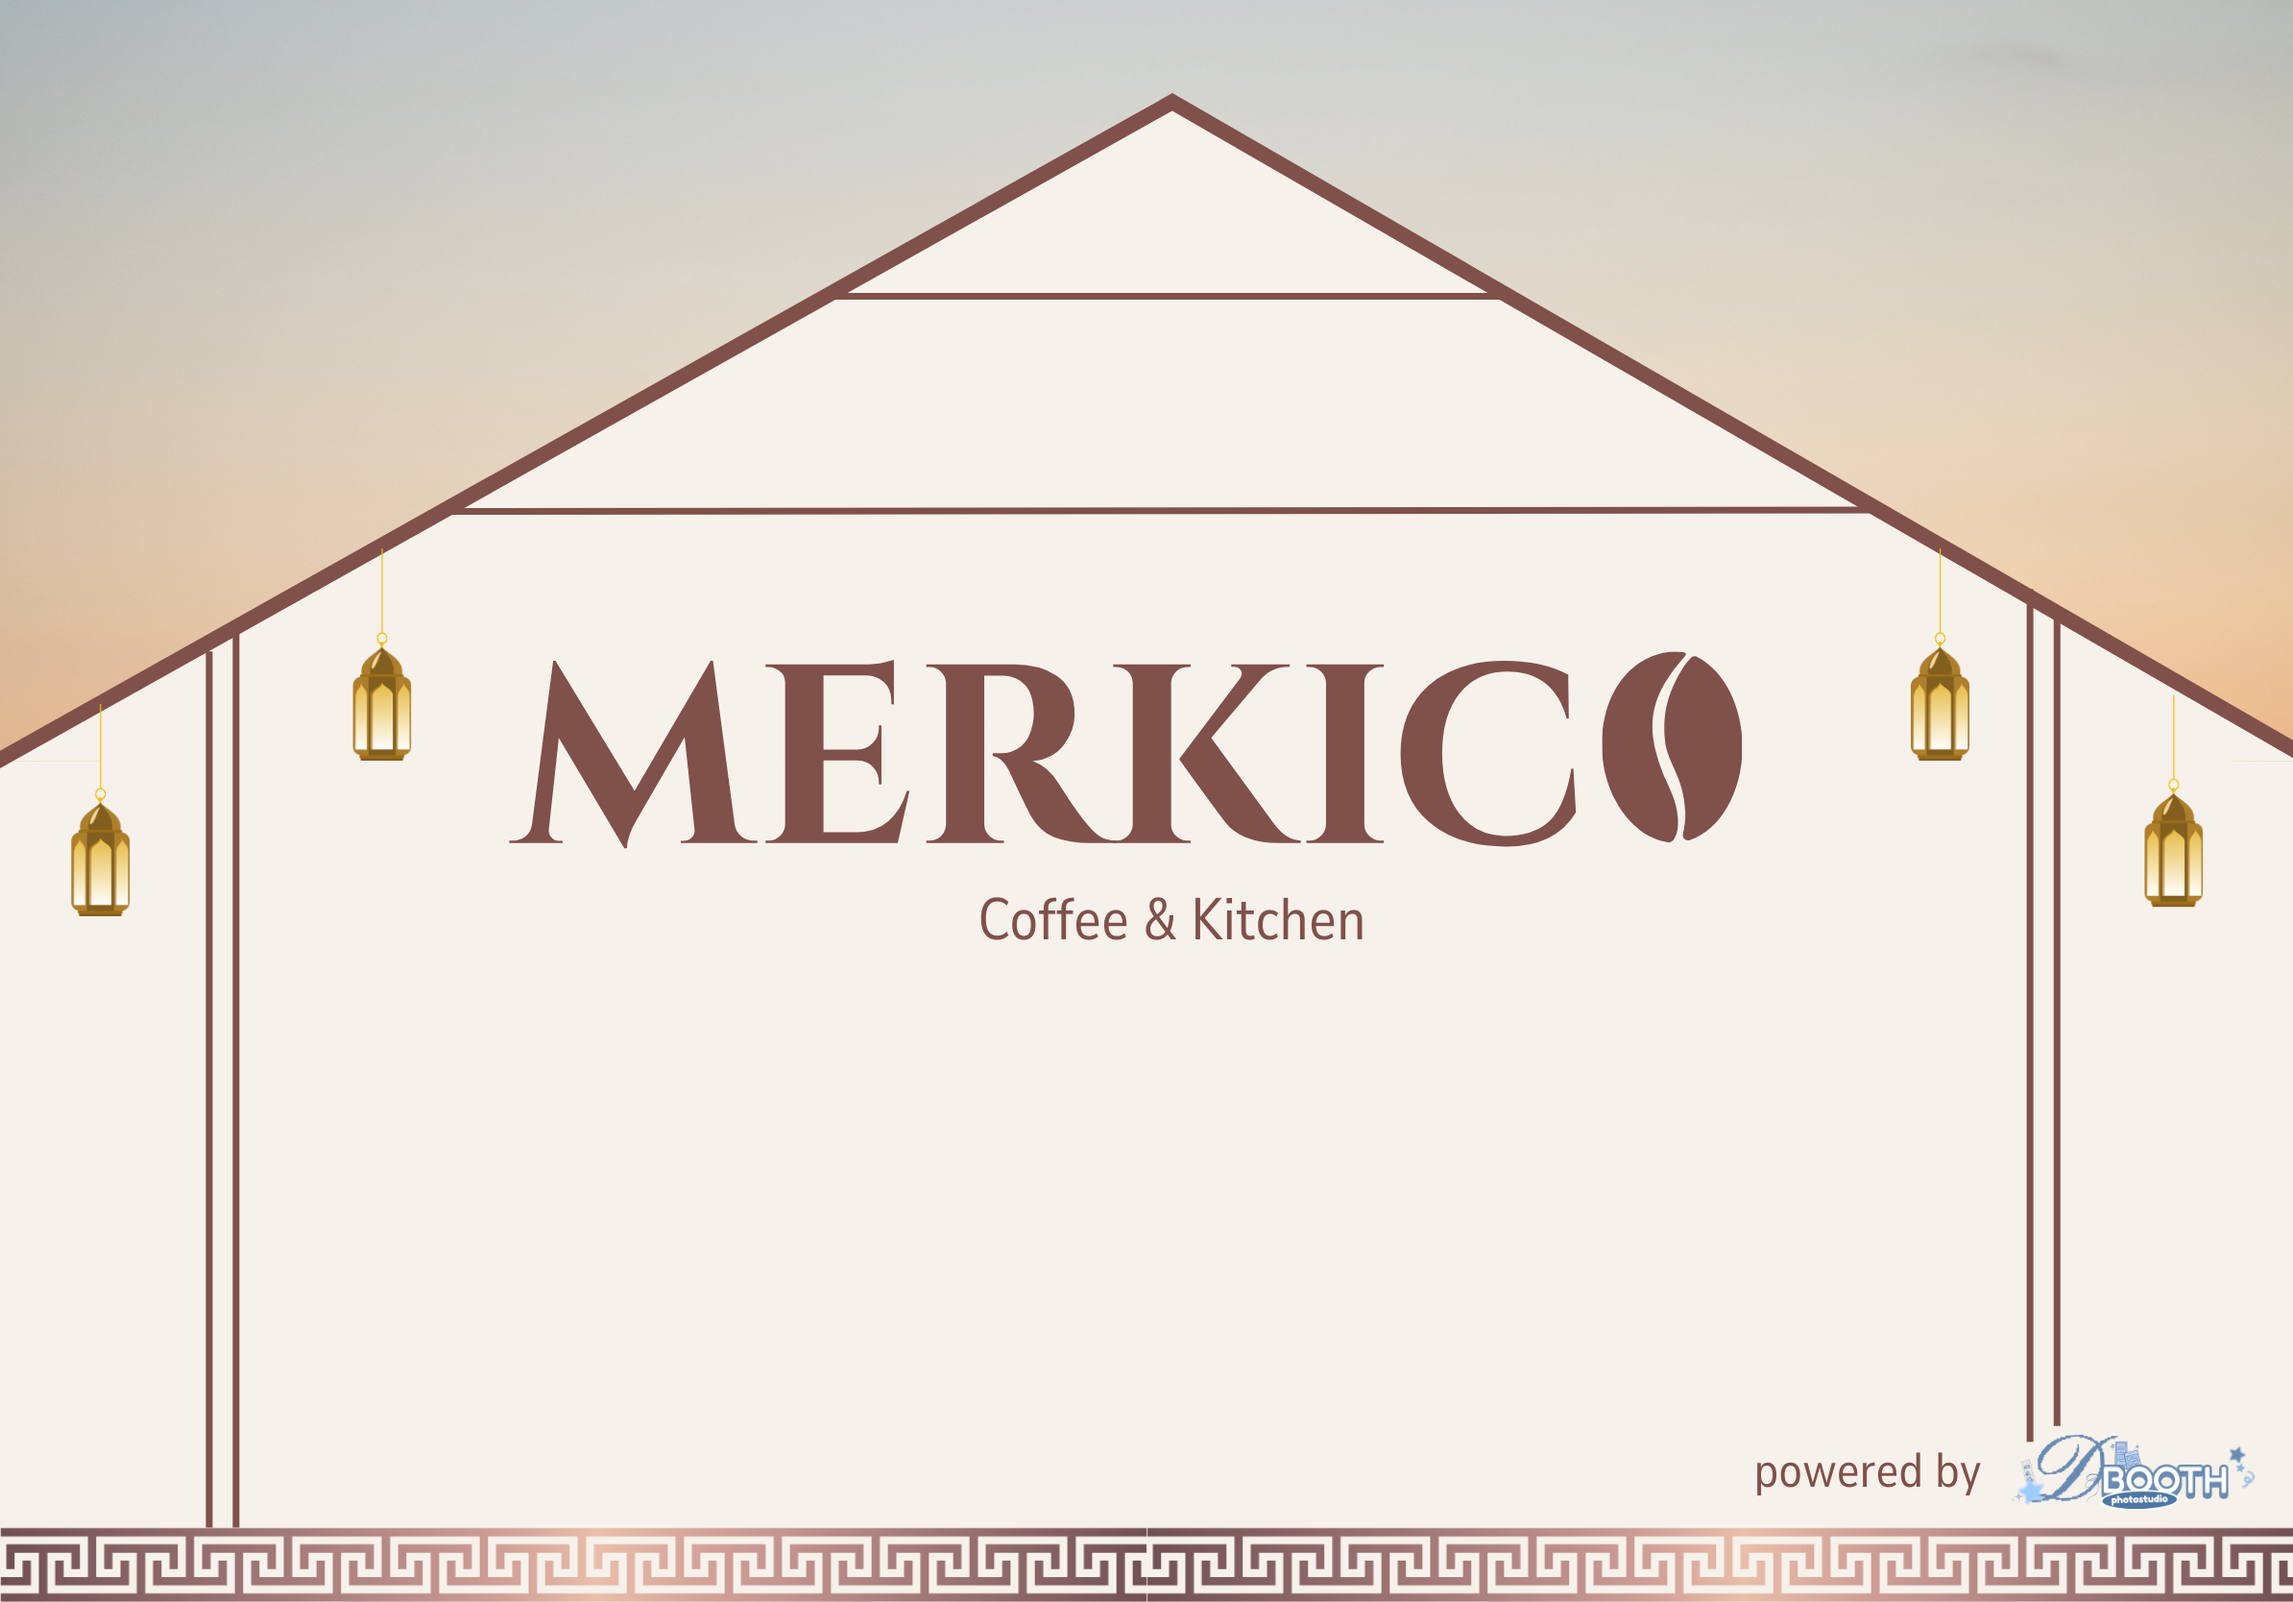
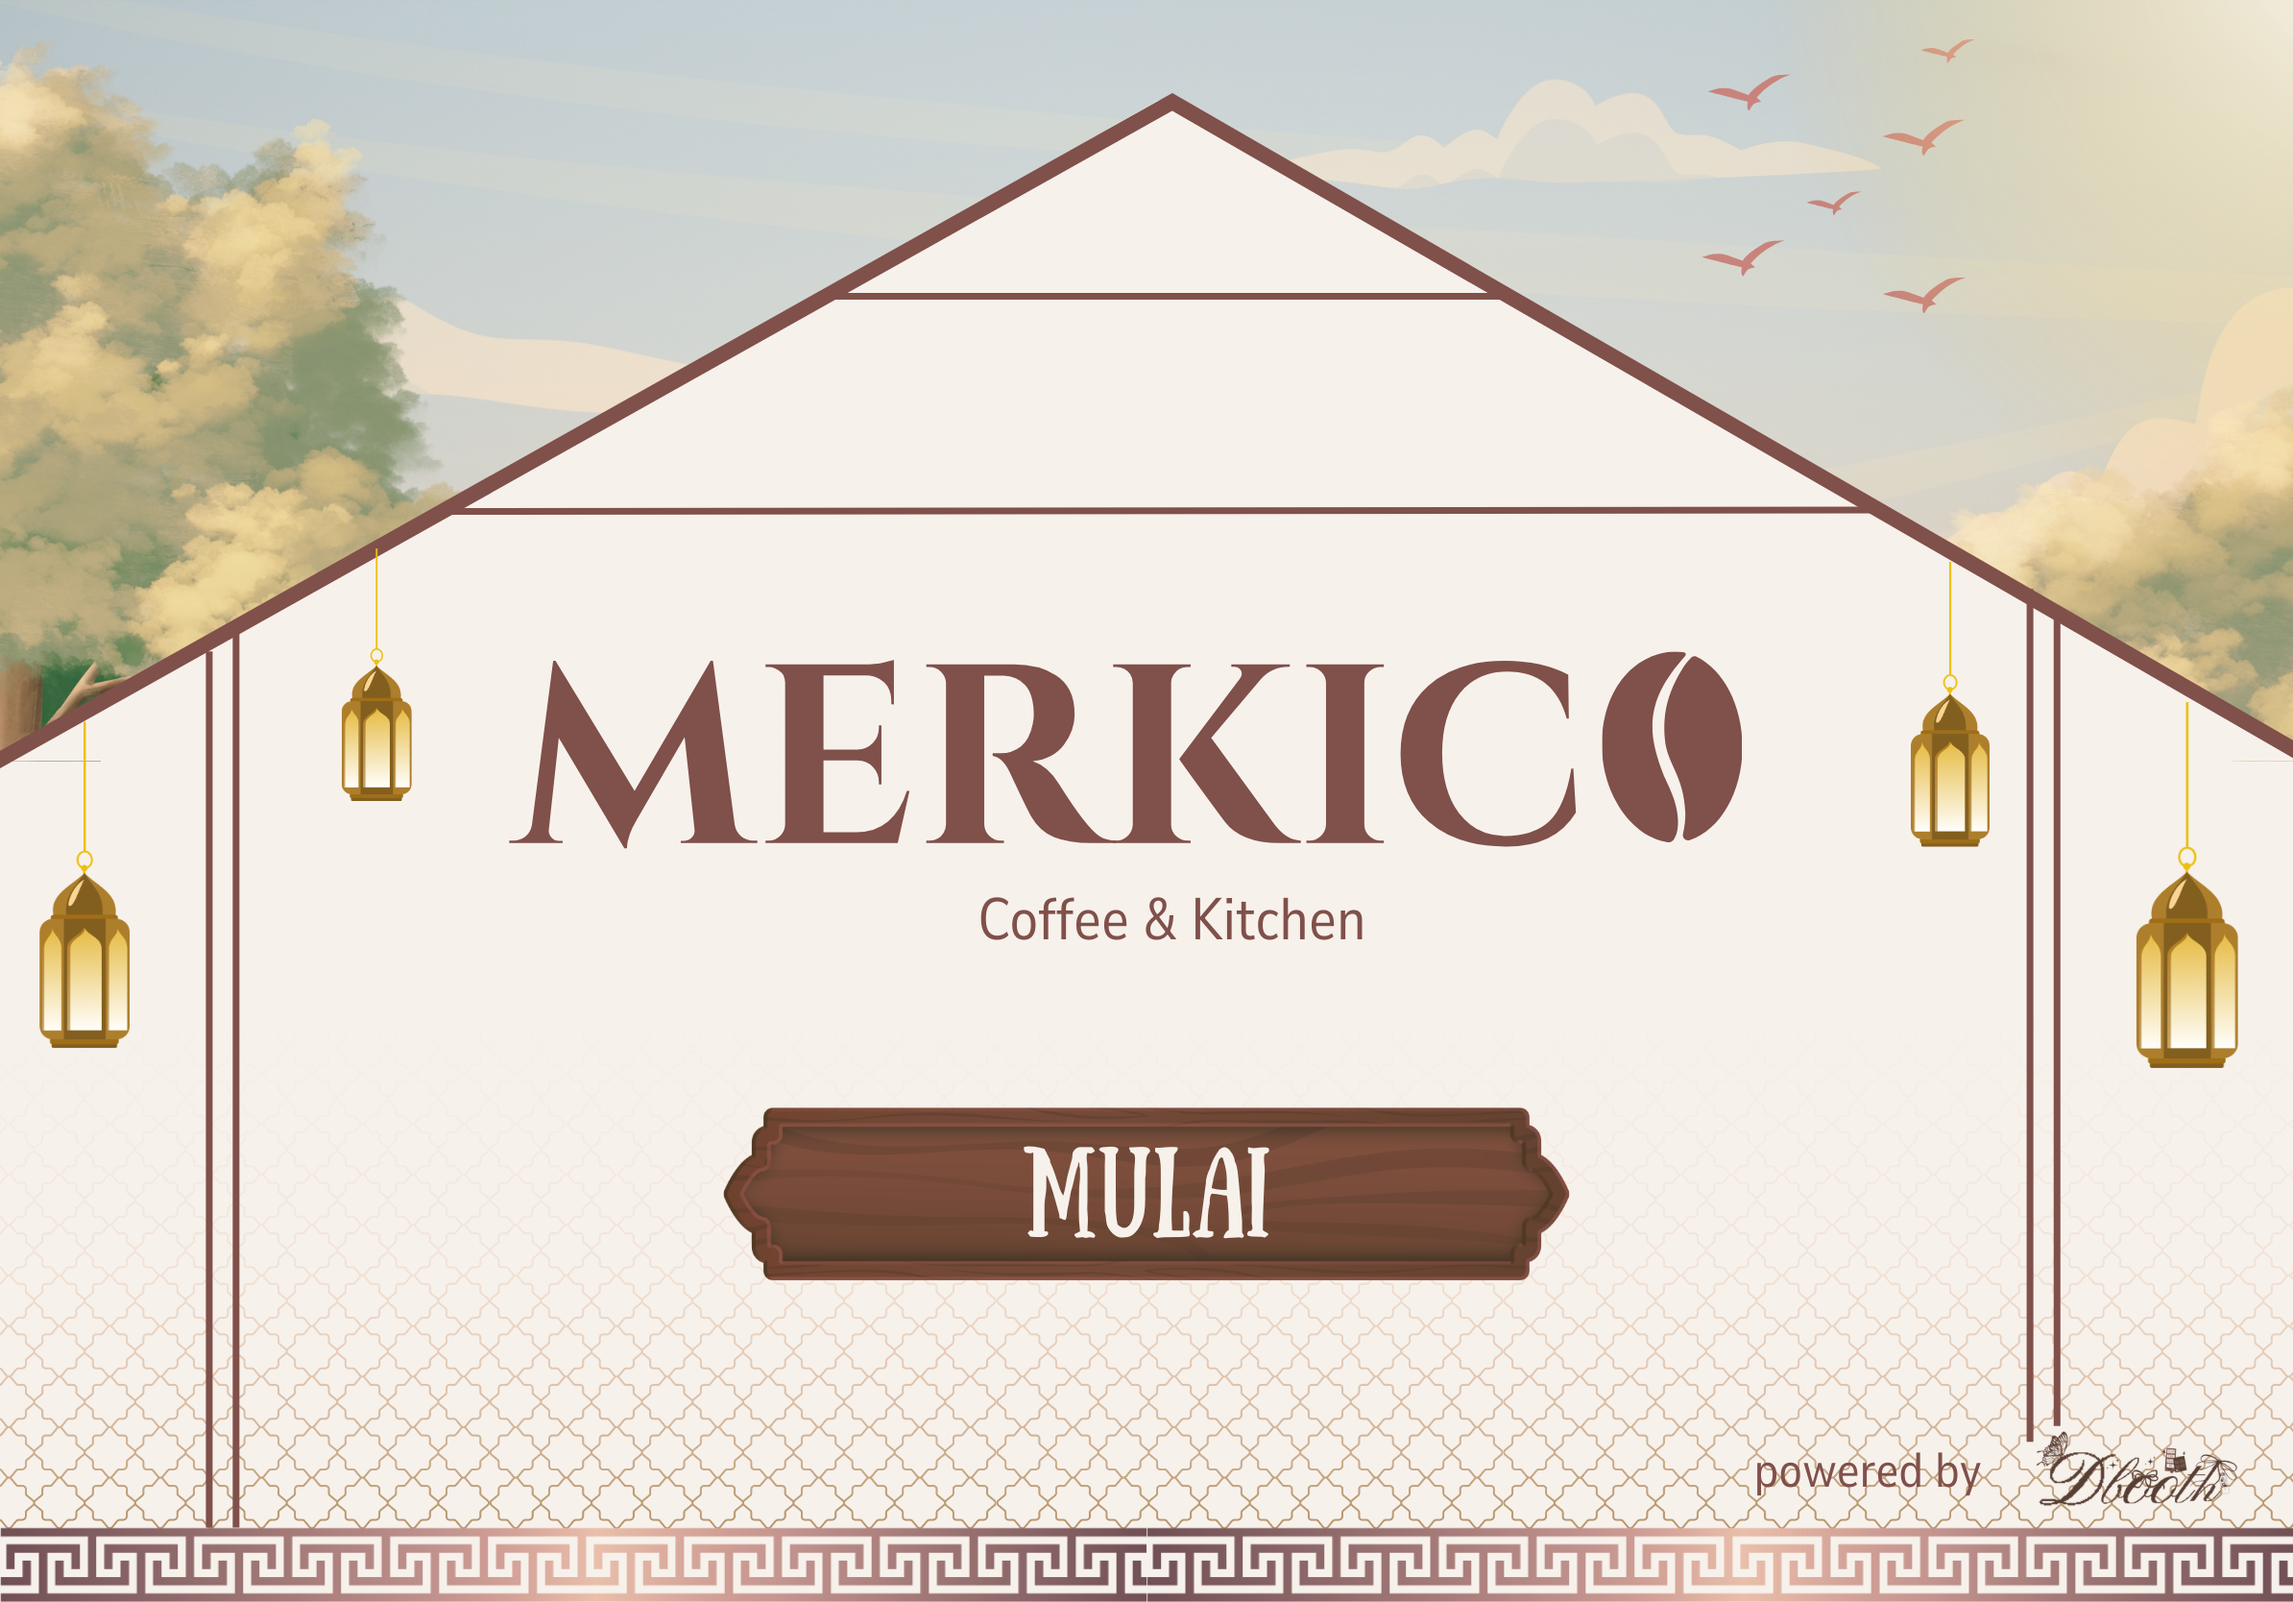
tinggal frame

diff --git a/src/event/4r/merkico/frames.js b/src/event/4r/merkico/frames.js
@@ -1,8 +1,8 @@
 export const frames = [ 
     {
-        id: 'Red 4r', 
-        name : 'Red', 
-        image : '/event/zidni-aike/frames/4r/red.png', 
+        id: 'merkico', 
+        name : 'Merkico', 
+        image : '/event/merkico/frames/merkico.png', 
         photoCount : '6', 
         canvas: {
             width: 1205,
@@ -50,7 +50,7 @@ export const frames = [
     {
         id: 'folklore 4r', 
         name : 'Folklore', 
-        image : '/event/zidni-aike/frames/4r/folklore.png', 
+        image : '/event/merkico/frames/dbooth-biru.png', 
         photoCount : '6', 
         canvas: {
             width: 1205,
@@ -98,7 +98,7 @@ export const frames = [
     {
         id: 'lover 4r', 
         name : 'lover', 
-        image : '/event/zidni-aike/frames/4r/lover.png', 
+        image : '/event/merkico/frames/ramadhan-kareem.png', 
         photoCount : '6', 
         canvas: {
             width: 1205,
@@ -143,4 +143,101 @@ export const frames = [
             }
         ]
     }, 
+    {
+        id: 'lover 4r', 
+        name : 'lover', 
+        image : '/event/merkico/frames/eid.png', 
+        photoCount : '6', 
+        canvas: {
+            width: 1205,
+            height: 1795
+        }, 
+        slots: [
+            {
+                x: 41, 
+                y:152, 
+                width : 530, 
+                height : 397
+            }, 
+            {
+                x: 41, 
+                y:630, 
+                width : 530, 
+                height : 397
+            },
+            {
+                x: 41, 
+                y:1108, 
+                width : 530, 
+                height : 397
+            }, 
+            {
+                x: 633, 
+                y:152, 
+                width : 530, 
+                height : 397
+            }, 
+            {
+                x: 633, 
+                y:630, 
+                width : 530, 
+                height : 397
+            },
+            {
+                x: 633, 
+                y:1108, 
+                width : 530, 
+                height : 397
+            }
+        ]
+    }, 
+    {
+        id: 'lover 4r', 
+        name : 'lover', 
+        image : '/event/merkico/frames/cats-are-cute.png', 
+        photoCount : '6', 
+        canvas: {
+            width: 1205,
+            height: 1795
+        }, 
+        slots: [
+            {
+                x: 41, 
+                y:152, 
+                width : 530, 
+                height : 397
+            }, 
+            {
+                x: 41, 
+                y:630, 
+                width : 530, 
+                height : 397
+            },
+            {
+                x: 41, 
+                y:1108, 
+                width : 530, 
+                height : 397
+            }, 
+            {
+                x: 633, 
+                y:152, 
+                width : 530, 
+                height : 397
+            }, 
+            {
+                x: 633, 
+                y:630, 
+                width : 530, 
+                height : 397
+            },
+            {
+                x: 633, 
+                y:1108, 
+                width : 530, 
+                height : 397
+            }
+        ]
+    }, 
+    
 ]

diff --git a/src/pages/Frame.vue b/src/pages/Frame.vue
@@ -42,6 +42,10 @@ onMounted(async () => {
   }
   frames.value = await loadFrames(session.eventId) 
 })
+function toHome(){
+  sessionStore.setStep("home")
+  router.push("/")
+}
 </script>
 
 <template>
@@ -49,16 +53,18 @@ onMounted(async () => {
     class="h-dvh w-full flex flex-col overflow-hidden relative"
     :style="backgroundStyle"
   >  
-    <h1 class="text-font text-center text-6xl font-sunday m-8 mt-25">
+    <div class="flex flex-row">
+      <i class="pi pi-times text-font text-xl m-2" @click="toHome"></i>
+    </div>
+    <h1 class="text-font text-center text-6xl font-sunday m-8 mt-20">
       PILIH FRAME
     </h1>
 
-    <div class="flex flex-row overflow-x-auto bg-bg w-full gap-x-10 scrollbar-hide m-auto justify-center overflow-y-hidden">
-
+    <div class="flex overflow-x-auto gap-x-10 px-10 snap-x  mt-5 snap-mandatory scrollbar-hide">
       <div
         v-for="frame in frames"
         :key="frame.id"
-        class="shrink-0 flex flex-col items-center mb-8"
+        class="shrink-0 flex flex-col items-center mb-8 snap-center"
       >
         <img
           :src="frame.image"

diff --git a/src/stores/sessionStore.js b/src/stores/sessionStore.js
@@ -2,8 +2,8 @@ import { defineStore } from 'pinia'
 
 export const useSessionStore = defineStore('session', {
   state: () => ({
-    eventId : "zidni-aike",
-    eventName: "Zidni & Aike",
+    eventId : "merkico",
+    eventName: "Merkico",
     eventDate: null,
     step: 'home',      
   }),

diff --git a/src/pages/Admin.vue b/src/pages/Admin.vue
@@ -20,7 +20,8 @@ onMounted(async () => {
 const router = useRouter()
 
 function toHome(){
-    router.push('/')
+  session.setStep("home")
+  router.push("/")
 }
 function setevent(){
     router.push('/event')

diff --git a/src/pages/Camera.vue b/src/pages/Camera.vue
@@ -127,6 +127,7 @@ onBeforeUnmount(async () => {
 
 function toHome(){
   stopCamera()
+  sessionStore.setStep("home")
   router.push('/')
 }
 

diff --git a/src/pages/Event.vue b/src/pages/Event.vue
@@ -32,6 +32,7 @@ async function save() {
 }
 
 function goHome() {
+  sessionStore.setStep("home")
   router.push('/')
 }
 </script>
